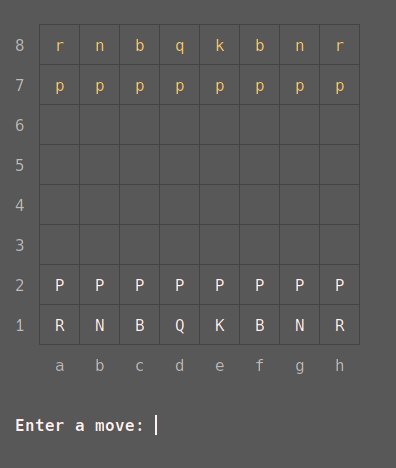
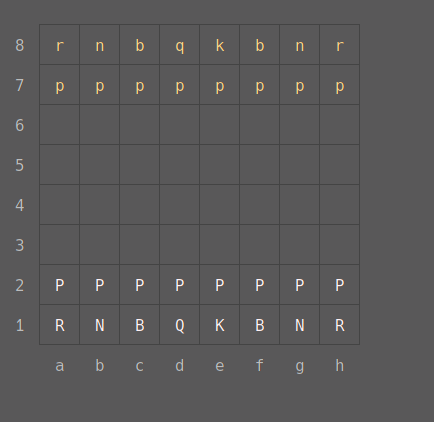
docs: update readme

diff --git a/README.md b/README.md
@@ -1,31 +1,33 @@
 # :chess_pawn: mchess
 
+[![CI](https://github.com/henriq20/mchess/actions/workflows/tests.yml/badge.svg)](https://github.com/henriq20/mchess/actions/workflows/tests.yml)
+[![License: MIT](https://img.shields.io/badge/License-MIT-yellow.svg)](https://opensource.org/licenses/MIT)
+
 A complete Chess library.
 
 ## Table of contents
-- [mchess](#chess_pawn-mchess)
-  - [Installation](#installation)
-  - [Usage](#usage)
-  - [API](#api)
-    - [constructor](#constructor)
-    - [place](#place)
-    - [takeOut](#takeOut)
-    - [piece](#piece)
-    - [square](#square)
-    - [move](#move)
-    - [undo](#undo)
-    - [moves](#moves)
-    - [canMove](#canMove)
-    - [isCheck](#is_check)
-    - [isCheckmate](#ischeckmate)
-    - [isStalemate](#isstalemate)
-    - [isGameOver](#isgameover)
-    - [isDraw](#isdraw)
-    - [isAttacked](#isattacked)
-    - [clear](#clear)
-    - [reset](#reset)
-    - [fen](#fen)
-  - [Contributing](#contributing)
+- [Installation](#installation)
+- [Usage](#usage)
+- [API](#api)
+  - [constructor](#constructor)
+  - [place](#place)
+  - [takeOut](#takeOut)
+  - [piece](#piece)
+  - [square](#square)
+  - [move](#move)
+  - [undo](#undo)
+  - [moves](#moves)
+  - [canMove](#canMove)
+  - [isCheck](#is_check)
+  - [isCheckmate](#ischeckmate)
+  - [isStalemate](#isstalemate)
+  - [isGameOver](#isgameover)
+  - [isDraw](#isdraw)
+  - [isAttacked](#isattacked)
+  - [clear](#clear)
+  - [reset](#reset)
+  - [fen](#fen)
+- [Contributing](#contributing)
 
 ## Installation
 
@@ -46,15 +48,14 @@ yarn add mchess
 ES6 imports or CommonJS requires are supported.
 
 ```JavaScript
-import { Chess, ChessBoardRenderer } from 'mchess';
+import Chess from 'mchess';
 import inquirer from 'inquirer';
 
 const chess = new Chess();
-const renderer = new ChessBoardRenderer(chess.board);
 
 while (!chess.isGameOver()) {
     console.clear();
-    console.log(renderer.render());
+    console.log(chess.render());
 
     const answers = await inquirer.prompt([
         {
@@ -69,7 +70,7 @@ while (!chess.isGameOver()) {
 }
 ```
 
-![Screenshot of a chessboard running in the terminal](media/board.png)
+![Screenshot of a game of chess running in the terminal](media/demo.png)
 
 ## API
 
@@ -79,6 +80,18 @@ You can use [FEN](https://www.chess.com/terms/fen-chess) to easily denote a posi
 ```JavaScript
 const chess = new Chess('rnbqkbnr/pppppppp/8/8/8/8/PPPPPPPP/RNBQKBNR w KQkq - 0 1');
 ```
+
+### render
+Gets the board representation as a string.
+
+```JavaScript
+
+console.log(chess.render());
+```
+
+![Screenshot of a chessboard in the terminal](media/board.png)
+
+You can customize how each square, file, rank and separator is displayed.
 
 #### place
 Places a piece on the board.
@@ -140,7 +153,7 @@ You can use [SAN](https://www.chess.com/article/view/chess-notation#algebraic-no
 // SAN notation
 chess.move('e4'); // White pawn moves to e4
 chess.move('d5'); // Black pawn moves to d5
-chess.move('exd5'); // White pawn on captures the pawn on d5
+chess.move('exd5'); // White pawn captures the pawn on d5
 
 // Same moves as above but with a simpler notation
 chess.move({ from: 'e2', to: 'e4' });
